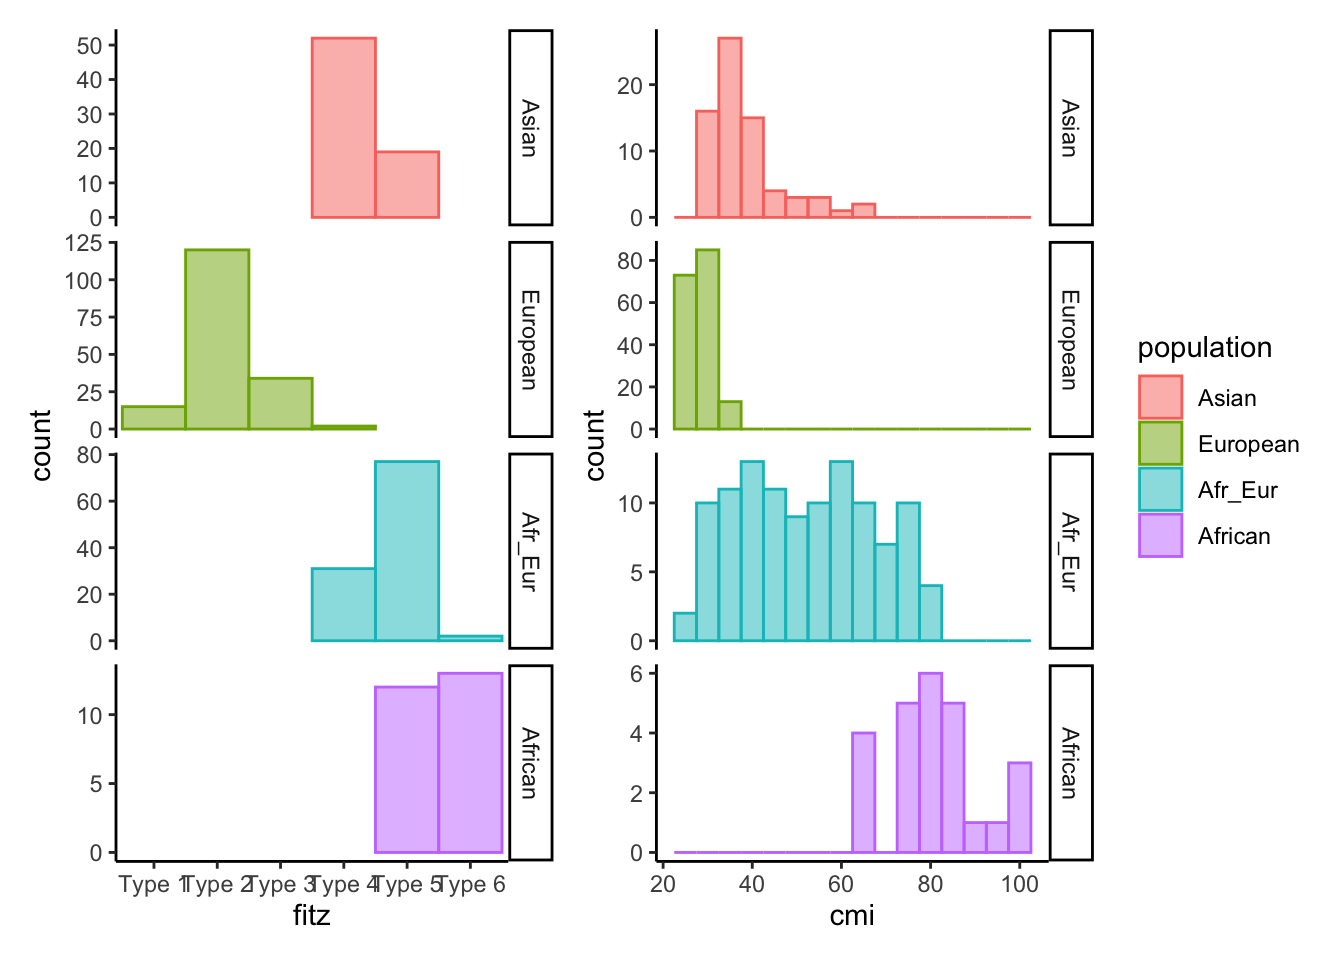
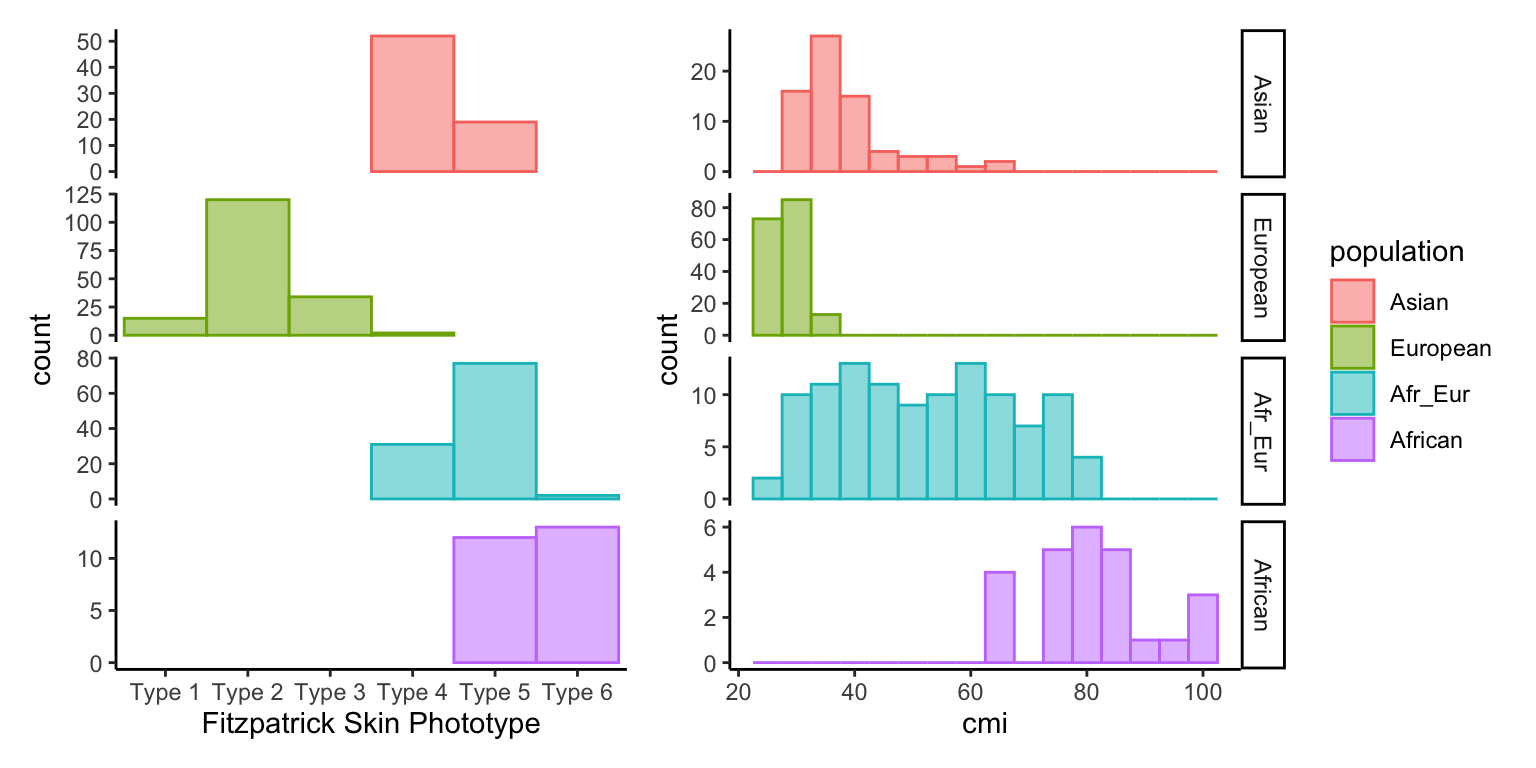
Update visuals

Changed region(s): [[0.0, 0.0312, 0.9688, 0.9688], [0.2188, 0.0312, 0.4062, 0.25], [0.375, 0.0312, 0.4375, 0.0625]]

diff --git a/docs/reflectance.html b/docs/reflectance.html
@@ -479,16 +479,16 @@ This reproducible <a href="http://rmarkdown.rstudio.com">R Markdown</a> analysis
 <div class="panel panel-default">
 <div class="panel-heading">
 <p class="panel-title">
-<a data-toggle="collapse" data-parent="#workflowr-checks" href="#strongRepositoryversionstrongahrefhttpsgithubcombizkid123SIGGRAPH2022SkinDatatreedc1eb442cad3dd8bea9a0f77affbe0cb9d44d8fetargetblankdc1eb44a"> <span class="glyphicon glyphicon-ok text-success" aria-hidden="true"></span> <strong>Repository version:</strong> <a href="https://github.com/bizkid123/SIGGRAPH2022-SkinData/tree/dc1eb442cad3dd8bea9a0f77affbe0cb9d44d8fe" target="_blank">dc1eb44</a> </a>
+<a data-toggle="collapse" data-parent="#workflowr-checks" href="#strongRepositoryversionstrongahrefhttpsgithubcombizkid123SIGGRAPH2022SkinDatatree5d891595281841d60a83868be8e8d122b1d84055targetblank5d89159a"> <span class="glyphicon glyphicon-ok text-success" aria-hidden="true"></span> <strong>Repository version:</strong> <a href="https://github.com/bizkid123/SIGGRAPH2022-SkinData/tree/5d891595281841d60a83868be8e8d122b1d84055" target="_blank">5d89159</a> </a>
 </p>
 </div>
[2 lines of base64/hex data omitted]
 <div class="panel-body">
 <p>
 Great! You are using Git for version control. Tracking code development and connecting the code version to the results is critical for reproducibility.
 </p>
 <p>
-The results in this page were generated with repository version <a href="https://github.com/bizkid123/SIGGRAPH2022-SkinData/tree/dc1eb442cad3dd8bea9a0f77affbe0cb9d44d8fe" target="_blank">dc1eb44</a>. See the <em>Past versions</em> tab to see a history of the changes made to the R Markdown and HTML files.
+The results in this page were generated with repository version <a href="https://github.com/bizkid123/SIGGRAPH2022-SkinData/tree/5d891595281841d60a83868be8e8d122b1d84055" target="_blank">5d89159</a>. See the <em>Past versions</em> tab to see a history of the changes made to the R Markdown and HTML files.
 </p>
 <p>
 Note that you need to be careful to ensure that all relevant files for the analysis have been committed to Git prior to generating the results (you can use <code>wflow_publish</code> or <code>wflow_git_commit</code>). workflowr only checks the R Markdown file, but you know if there are other scripts or data files that it depends on. Below is the status of the Git repository when the results were generated:
@@ -539,6 +539,40 @@ Message
 </tr>
 </thead>
 <tbody>
+<tr>
+<td>
+Rmd
+</td>
+<td>
+<a href="https://github.com/bizkid123/SIGGRAPH2022-SkinData/blob/5d891595281841d60a83868be8e8d122b1d84055/analysis/reflectance.Rmd" target="_blank">5d89159</a>
+</td>
+<td>
+Tina Lasisi
+</td>
+<td>
+2022-02-18
+</td>
+<td>
+Updating all the images and the website
+</td>
+</tr>
+<tr>
+<td>
+html
+</td>
+<td>
+<a href="https://rawcdn.githack.com/bizkid123/SIGGRAPH2022-SkinData/5d891595281841d60a83868be8e8d122b1d84055/docs/reflectance.html" target="_blank">5d89159</a>
+</td>
+<td>
+Tina Lasisi
+</td>
+<td>
+2022-02-18
+</td>
+<td>
+Updating all the images and the website
+</td>
+</tr>
 <tr>
 <td>
 Rmd
@@ -660,6 +694,17 @@ Date
 <tbody>
 <tr>
 <td>
+<a href="https://github.com/bizkid123/SIGGRAPH2022-SkinData/blob/5d891595281841d60a83868be8e8d122b1d84055/docs/figure/reflectance.Rmd/plt-skin-1.png" target="_blank">5d89159</a>
+</td>
+<td>
+Tina Lasisi
+</td>
+<td>
+2022-02-18
+</td>
+</tr>
+<tr>
+<td>
 <a href="https://github.com/bizkid123/SIGGRAPH2022-SkinData/blob/2977dc77fd1e9df8413ef18d48b74dda89111958/docs/figure/reflectance.Rmd/plt-skin-1.png" target="_blank">2977dc7</a>
 </td>
 <td>
@@ -673,8 +718,120 @@ Tina Lasisi
 </table>
 </div>
 </div>
-<p><img src="figure/reflectance.Rmd/plt-hist-1.png" width="100%" style="display: block; margin: auto;" /><img src="figure/reflectance.Rmd/plt-hist-2.png" width="100%" style="display: block; margin: auto;" /></p>
+<p><img src="figure/reflectance.Rmd/plt-hist-1.png" width="100%" style="display: block; margin: auto;" /></p>
+<p>
+<button type="button" class="btn btn-default btn-xs btn-workflowr btn-workflowr-fig" data-toggle="collapse" data-target="#fig-plt-hist-1">
+Past versions of plt-hist-1.png
+</button>
+</p>
+<div id="fig-plt-hist-1" class="collapse">
+<div class="table-responsive">
+<table class="table table-condensed table-hover">
+<thead>
+<tr>
+<th>
+Version
+</th>
+<th>
+Author
+</th>
+<th>
+Date
+</th>
+</tr>
+</thead>
+<tbody>
+<tr>
+<td>
+<a href="https://github.com/bizkid123/SIGGRAPH2022-SkinData/blob/5d891595281841d60a83868be8e8d122b1d84055/docs/figure/reflectance.Rmd/plt-hist-1.png" target="_blank">5d89159</a>
+</td>
+<td>
+Tina Lasisi
+</td>
+<td>
+2022-02-18
+</td>
+</tr>
+</tbody>
+</table>
+</div>
+</div>
+<p><img src="figure/reflectance.Rmd/plt-hist-2.png" width="100%" style="display: block; margin: auto;" /></p>
+<p>
+<button type="button" class="btn btn-default btn-xs btn-workflowr btn-workflowr-fig" data-toggle="collapse" data-target="#fig-plt-hist-2">
+Past versions of plt-hist-2.png
+</button>
+</p>
+<div id="fig-plt-hist-2" class="collapse">
+<div class="table-responsive">
+<table class="table table-condensed table-hover">
+<thead>
+<tr>
+<th>
+Version
+</th>
+<th>
+Author
+</th>
+<th>
+Date
+</th>
+</tr>
+</thead>
+<tbody>
+<tr>
+<td>
+<a href="https://github.com/bizkid123/SIGGRAPH2022-SkinData/blob/5d891595281841d60a83868be8e8d122b1d84055/docs/figure/reflectance.Rmd/plt-hist-2.png" target="_blank">5d89159</a>
+</td>
+<td>
+Tina Lasisi
+</td>
+<td>
+2022-02-18
+</td>
+</tr>
+</tbody>
+</table>
+</div>
+</div>
 <p><img src="figure/reflectance.Rmd/df-hist-facet-1.png" width="100%" style="display: block; margin: auto;" /></p>
+<p>
+<button type="button" class="btn btn-default btn-xs btn-workflowr btn-workflowr-fig" data-toggle="collapse" data-target="#fig-df-hist-facet-1">
+Past versions of df-hist-facet-1.png
+</button>
+</p>
+<div id="fig-df-hist-facet-1" class="collapse">
+<div class="table-responsive">
+<table class="table table-condensed table-hover">
+<thead>
+<tr>
+<th>
+Version
+</th>
+<th>
+Author
+</th>
+<th>
+Date
+</th>
+</tr>
+</thead>
+<tbody>
+<tr>
+<td>
+<a href="https://github.com/bizkid123/SIGGRAPH2022-SkinData/blob/5d891595281841d60a83868be8e8d122b1d84055/docs/figure/reflectance.Rmd/df-hist-facet-1.png" target="_blank">5d89159</a>
+</td>
+<td>
+Tina Lasisi
+</td>
+<td>
+2022-02-18
+</td>
+</tr>
+</tbody>
+</table>
+</div>
+</div>
 <br>
 <p>
 <button type="button" class="btn btn-default btn-workflowr btn-workflowr-sessioninfo" data-toggle="collapse" data-target="#workflowr-sessioninfo" style="display: block;">
